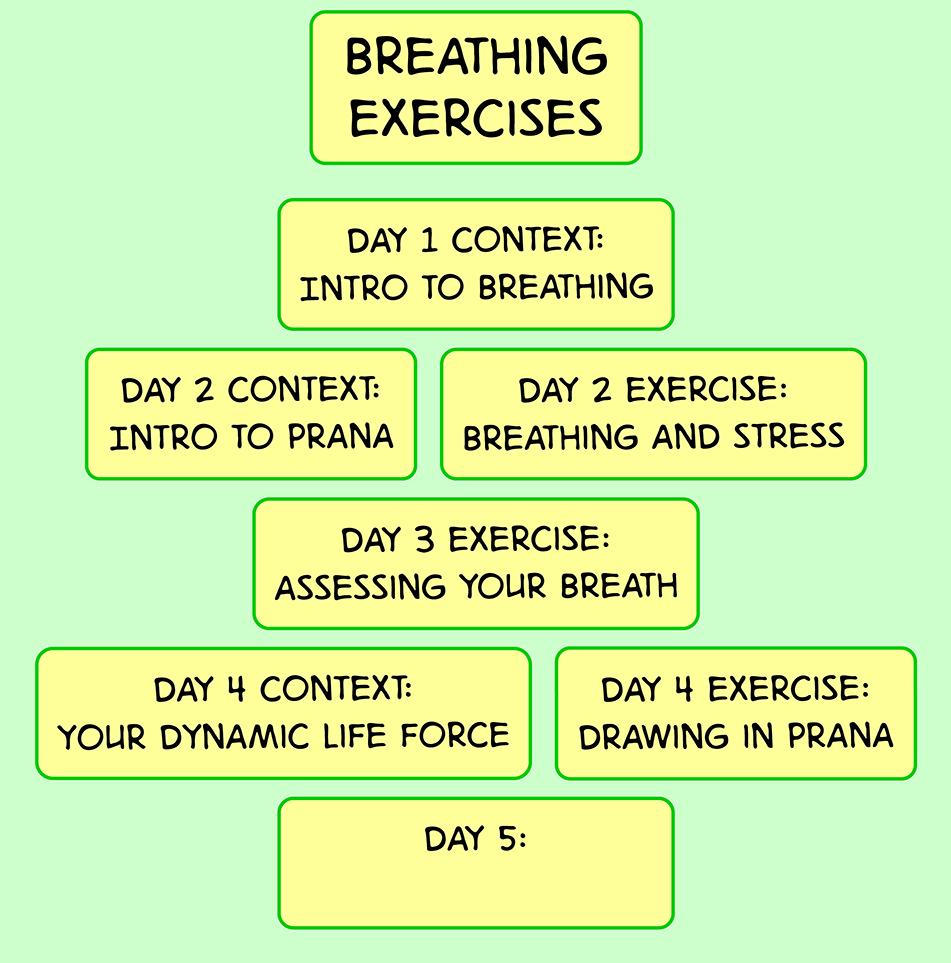
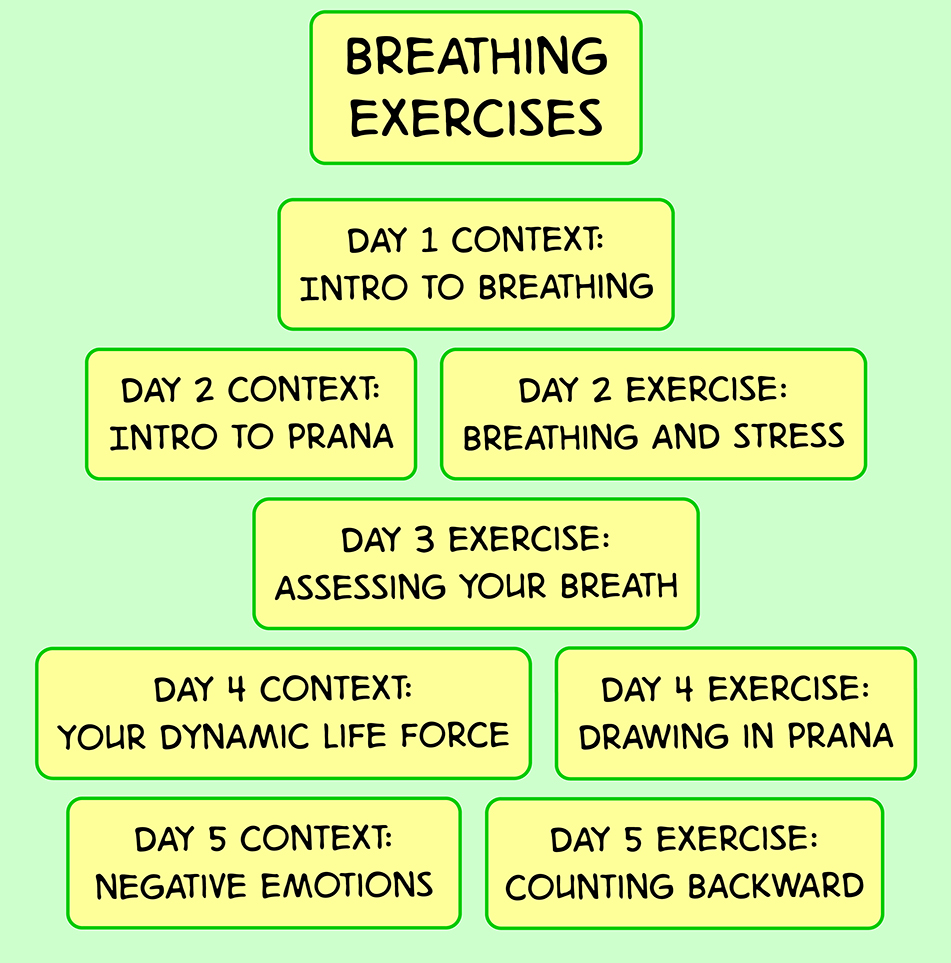
added day 5 breathing exercises

Changed region(s): [[0.061, 0.81, 0.9453, 0.9657]]

diff --git a/classroom_tauntaun_breathingExercises_list.html b/classroom_tauntaun_breathingExercises_list.html
@@ -20,6 +20,8 @@
     <area target="" alt="Day 3 exercise" title="Day 3 exercise" class="lightwindow" params="lightwindow_width=600,lightwindow_height=300" href="https://dl.dropbox.com/s/5tpskokot9gljwj/tauntaun_Assessing_your_breath.wav" coords="250,499,699,626" shape="rect">
     <area target="" alt="Day 4 context" title="Day 4 context" class="lightwindow" params="lightwindow_width=600,lightwindow_height=300" href="https://dl.dropbox.com/s/neutymfaca3c7zz/tauntaun_Your_dynamic_life_force.wav" coords="34,646,532,780" shape="rect">
     <area target="" alt="Day 4 exercise" title="Day 4 exercise" class="lightwindow" params="lightwindow_width=600,lightwindow_height=300" href="https://dl.dropbox.com/s/x22alj2g5dhl2zu/tauntaun_Drawing_in_prana.wav" coords="555,649,915,780" shape="rect">
+    <area target="" alt="Day 5 context" title="Day 5 context" class="lightwindow" params="lightwindow_width=600,lightwindow_height=300" href="https://dl.dropbox.com/s/hv4owtzyhbm0qvi/tauntaun_Coping_with_negative_emotions.wav" coords="67,797,459,926" shape="rect">
+    <area target="" alt="Day 5 exercise" title="Day 5 exercise" class="lightwindow" params="lightwindow_width=600,lightwindow_height=300" href="https://dl.dropbox.com/s/6rl2w97p1s4cefl/tauntaun_Counting_backward_and_bonus.wav" coords="485,800,884,928" shape="rect">
 </map>
 </body>
 
